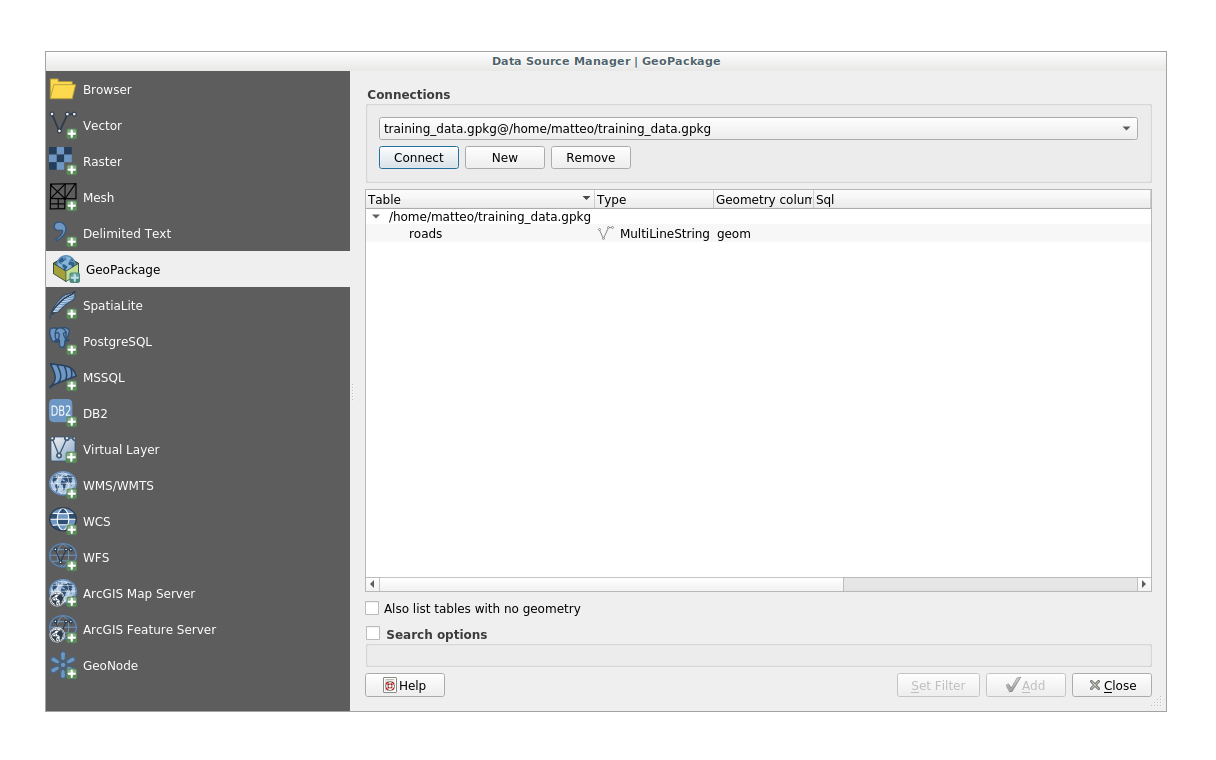
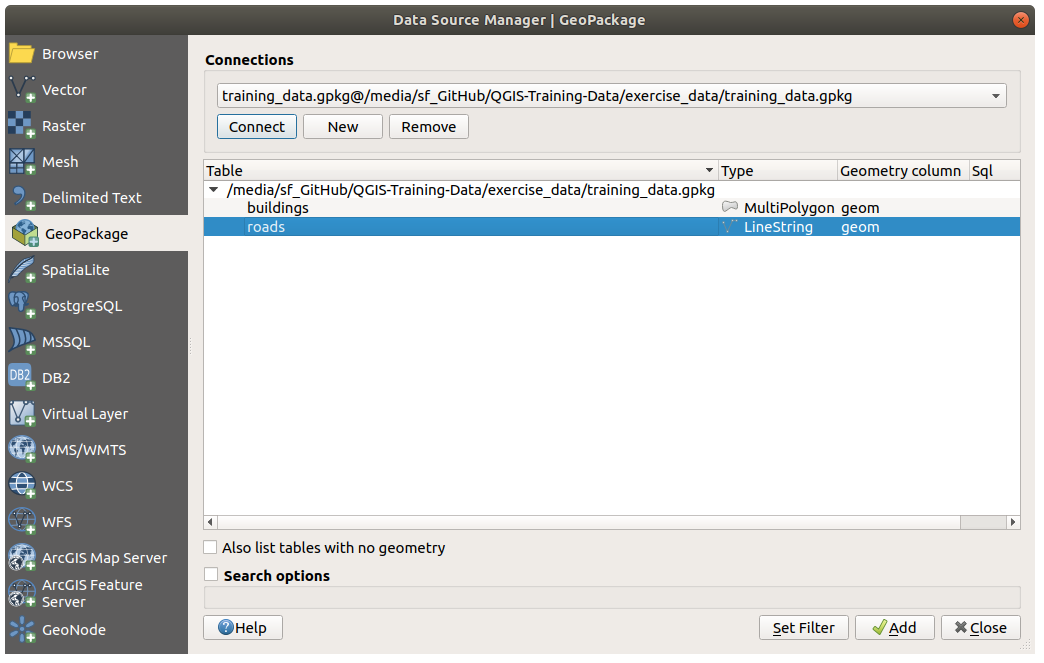
Add detailed steps to add a GeoPackage layer
using the ad hoc tab from the Data Source Manager

Changed region(s): [[0.0, 0.0, 1.0, 0.9955], [0.7356, 0.8748, 0.9808, 0.9653], [0.9195, 0.0905, 0.9808, 0.2413]]

diff --git a/source/docs/training_manual/basic_map/vector_data.rst b/source/docs/training_manual/basic_map/vector_data.rst
@@ -44,58 +44,48 @@ city blocks.
 
 .. _load_geopackage:
 
-|moderate| |FA| Load a layer from GeoPackage
+|basic| |FA| Loading Vector Data From GeoPackage Database
 -------------------------------------------------------------------------------
 
-`GeoPackage <https://www.geopackage.org/>`_ is an open format for storing
-geospatial data. QGIS adds a lot of support to this new format that is slowly
-replacing the ESRI Shapefile format.
+Databases allow you to store a large volume of associated data in one file. You
+may already be familiar with a database management system (DBMS) such as
+Libreoffice Base or MS Access. GIS applications can also make use of databases.
+GIS-specific DBMSes (such as PostGIS) have extra functions, because they need to
+handle spatial data.
 
-GeoPackage is a single file format that can contain different types of data: vector
-and raster layers but also tables without spatial information in them (like CSV
-file).
+The `GeoPackage <https://www.geopackage.org/>`_ open format is a database container that
+allows you to store GIS data (layers) in a single file. Unlike the ESRI
+Shapefile format (e.g. the :file:`roads.shp` file you previously load that
+contains only roads vector data), a single GeoPackage file can contain various
+data, vector and raster types, in different coordinate reference systems,
+as well as tables without spatial information; all these features allow you to
+easily share data and avoid file duplication in your computer.
 
-In order to load a layer from a GeoPackage:
+In order to load a layer from GeoPackage, you will first need to create the
+connection to the database:
 
-#. Click on the |dataSourceManager| button.
+#. Click on the |dataSourceManager| :sup:`Open Data Source Manager` button.
 #. On the left click on the |newGeoPackageLayer| :guilabel:`GeoPackage` tab.
 #. Click on the :guilabel:`New` button and browse to the :file:`training_data.gpkg`
-   file in the Training Data folder you have downloaded before.
-#. Select the file and press :guilabel:`Open`. The file path is now added to and shown
-   in the drop-down menu.
+   file in the :file:`exercise_data` folder you have downloaded before.
+#. Select the file and press :guilabel:`Open`. The file path is now added to the
+   Geopackage connections list, and shown in the drop-down menu.
+
+From now, you can add any layer from this GeoPackage file to QGIS.
+
 #. Click on :guilabel:`Connect` button.
    You should see in the central part of the window the list of all the layers
    contained in the GeoPackage file.
-#. Select the :file:`roads` layer and click on the :guilabel:`Add` button.
+#. Select the :guilabel:`roads` layer and click on the :guilabel:`Add` button.
 
-.. image:: img/add_data_dialog_geopackage.png
-  :align: center
+   .. image:: img/add_data_dialog_geopackage.png
+      :align: center
+
+   A :guilabel:`roads` layer is added to the :guilabel:`Layers` panel with
+   features displayed in the map canvas.
+#. Click on :guilabel:`Close`.
 
 Congratulations! You have loaded the first layer from a GeoPackage file.
-
-.. _backlink-vector-load-geopackage-1:
-
-|basic| |FA| Loading Vector Data From GeoPackage
--------------------------------------------------------------------------------
-
-The `GeoPackage <https://www.geopackage.org/>`_ is a database container that allows
-you to store GIS data (layers) in a single file. A single GeoPackage file can
-contain both vector and raster data also in different coordinate reference systems:
-all these features allow you to easily share data and to avoid file duplication
-in your computer.
-
-Refer back to the introductory exercise in the previous section for
-instructions on how to add vector layers.
-
-Load the data sets from the :file:`training_data.gpkg` file into your map following
-the same method:
-
-* :guilabel:`buildings`
-* :guilabel:`places`
-* :guilabel:`rivers`
-* :guilabel:`water`
-
-:ref:`Check your results <vector-load-geopackage-1>`
 
 
 .. _backlink-vector-load-from-database-1:
